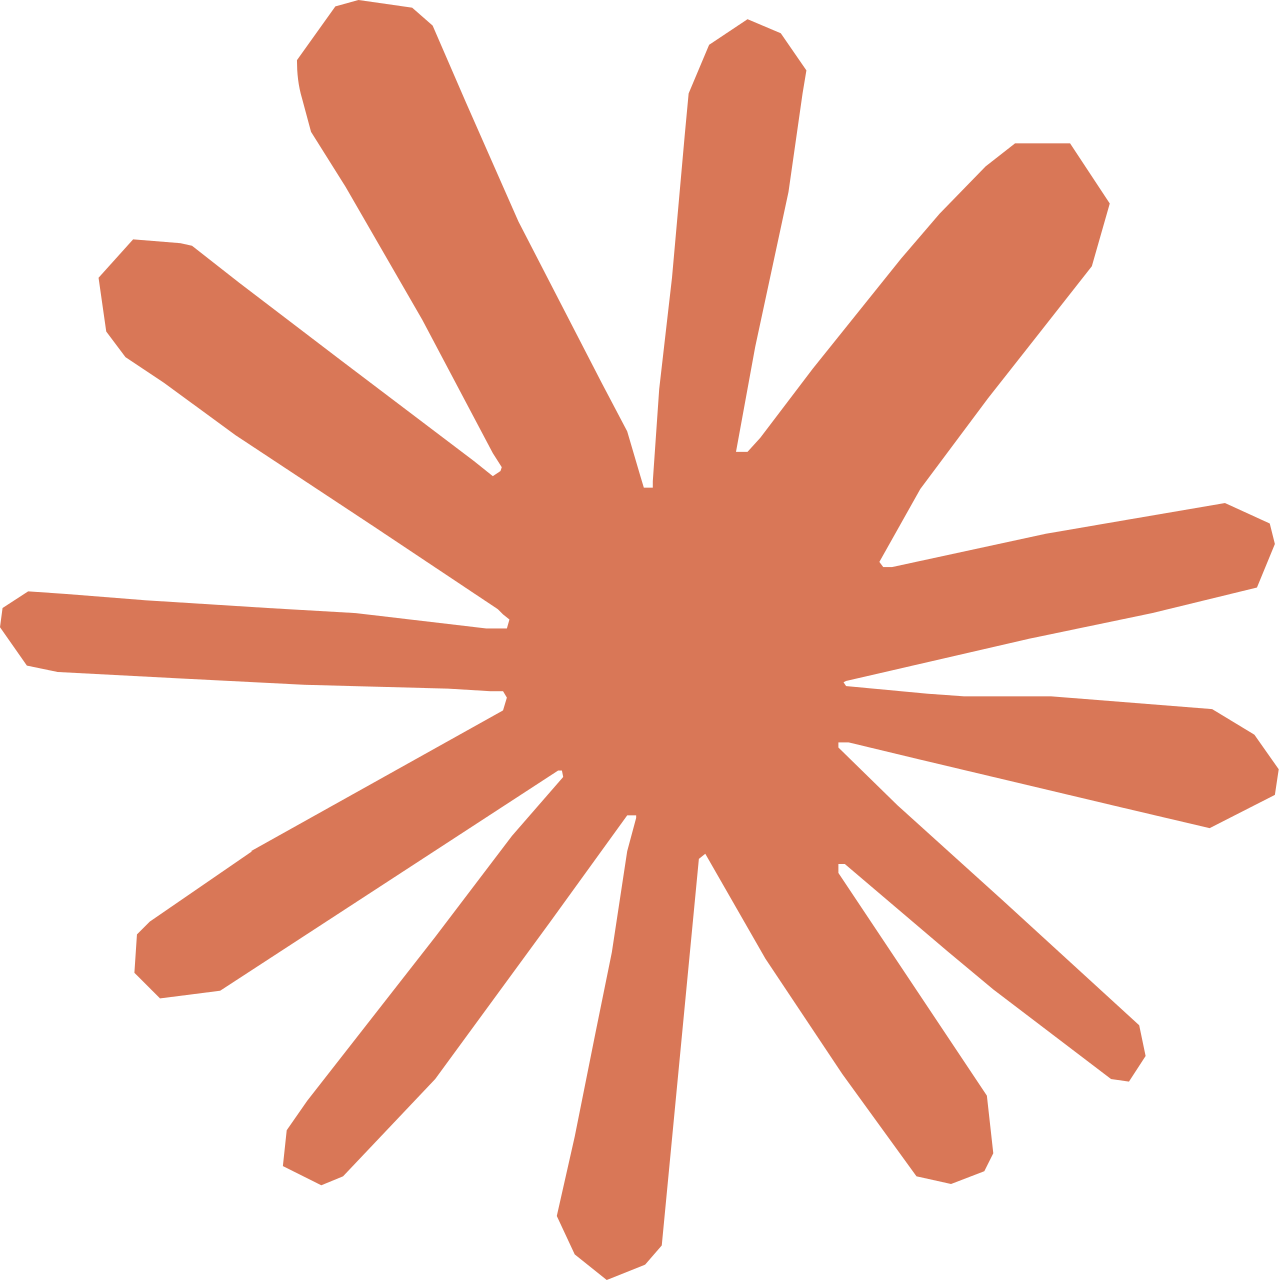
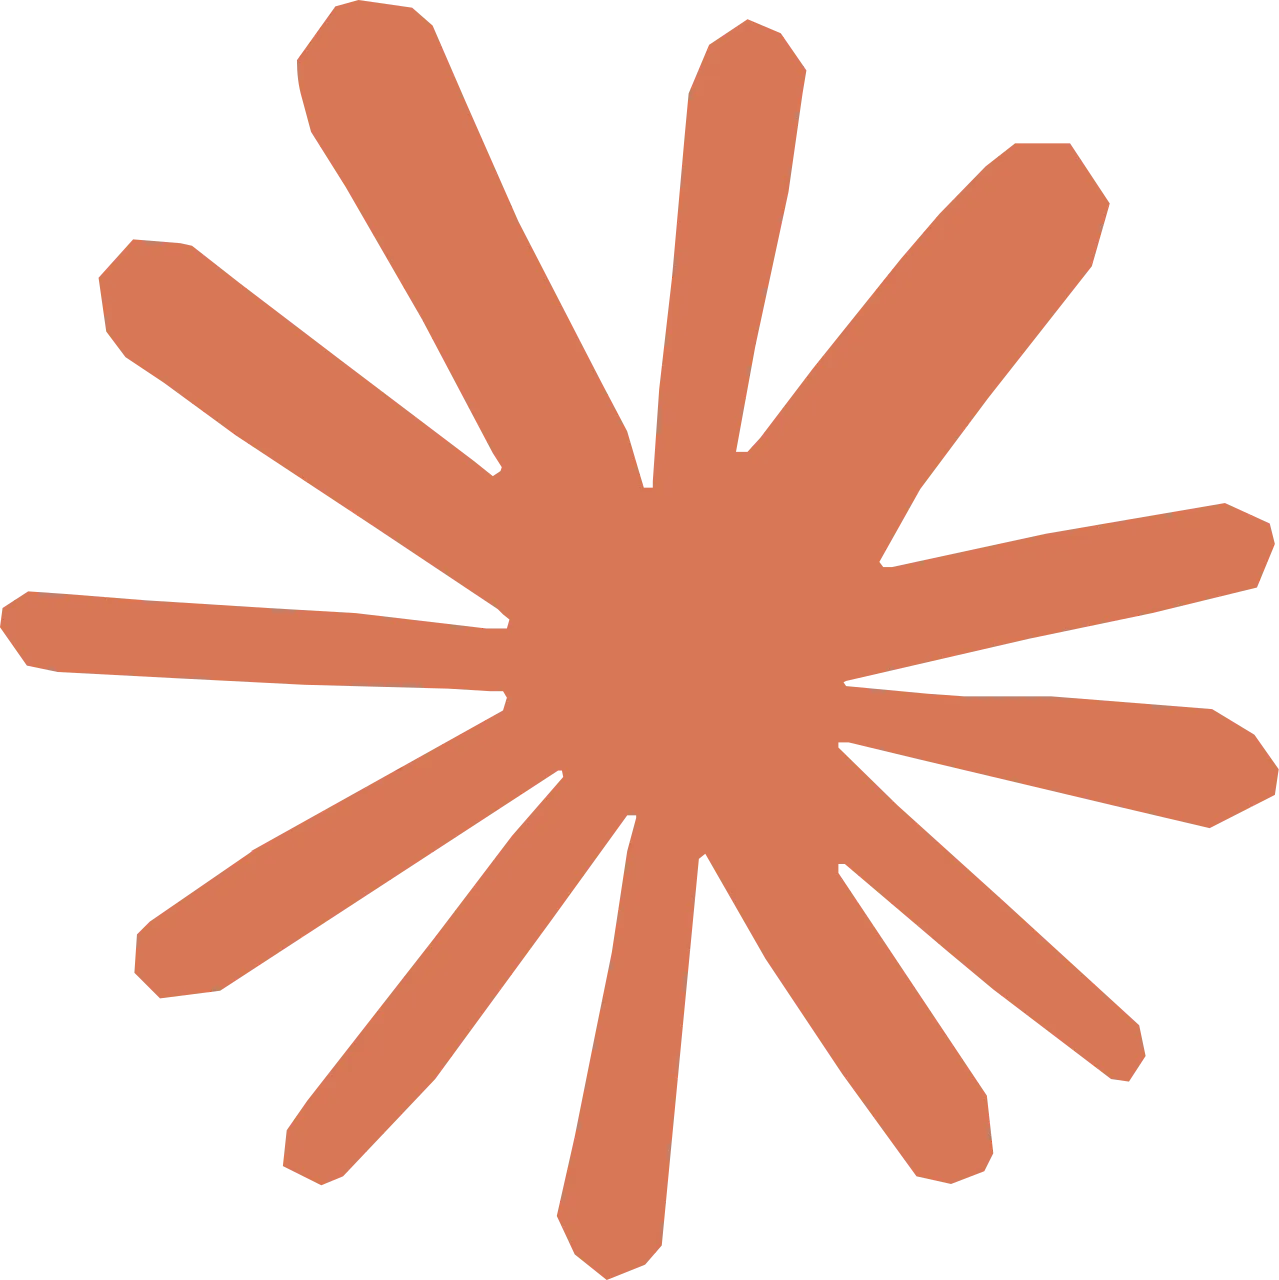
content: swap Unicorn.studio for Claude Code in the toolbox list
Uses the Claude AI sunburst mark (trimmed to remove excess transparent
padding so it reads at the same size as the sibling tool icons).

diff --git a/HTML/about-us.html b/HTML/about-us.html
@@ -963,10 +963,10 @@
                       <div class="mxd-toolbox__item">
                         <div class="mxd-toolbox__divider divider-top anim-uni-clip-in"></div>
                         <div class="mxd-toolbox__icon anim-uni-slide-down">
-                          <img src="img/tech/icon-unicorn.svg" alt="Sovilj Icon">
+                          <img src="img/tech/Claude_AI_symbol.svg.webp" alt="Sovilj Icon">
                         </div>
                         <div class="mxd-toolbox__name anim-uni-slide-down">
-                          <p>Unicorn.studio</p>
+                          <p>Claude Code</p>
                         </div>
                         <div class="mxd-toolbox__divider divider-bottom anim-uni-clip-in"></div>
                       </div>
